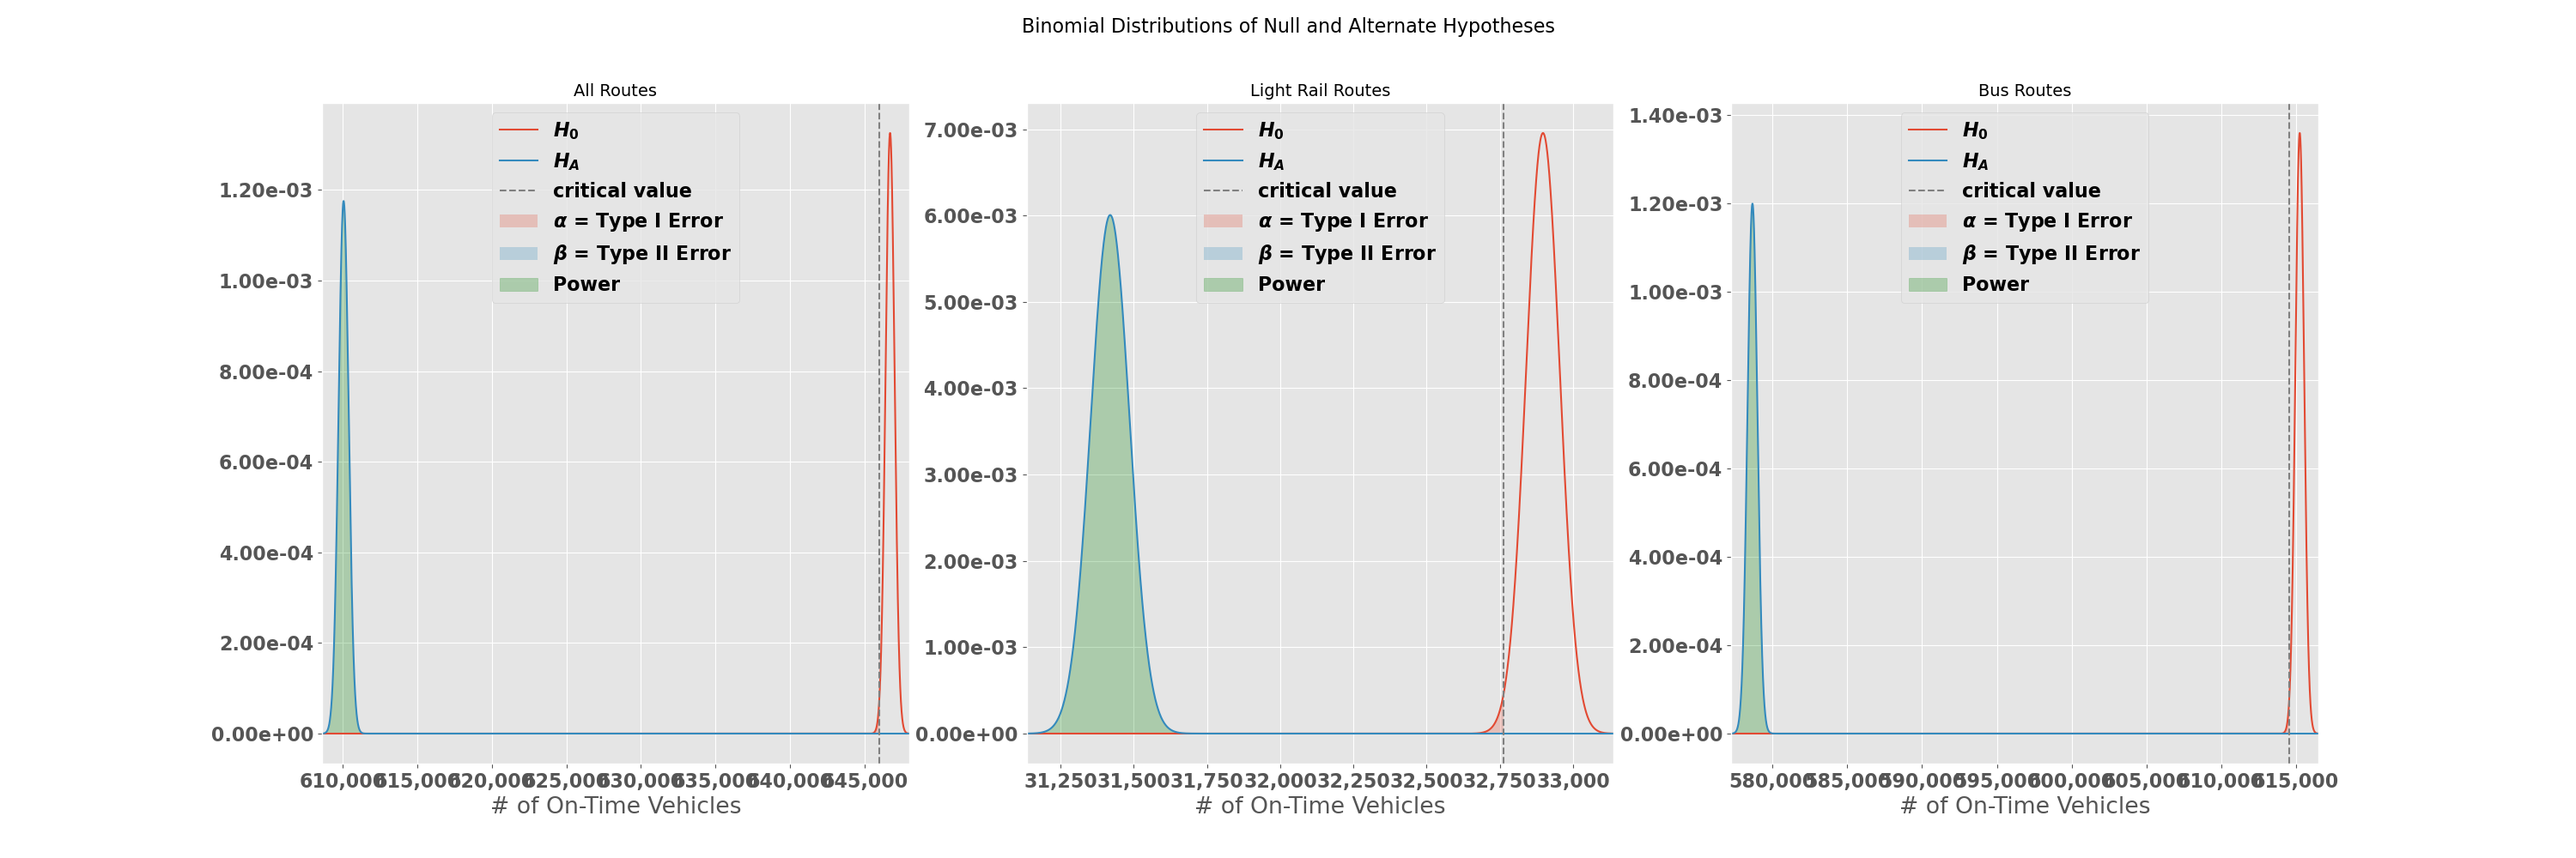
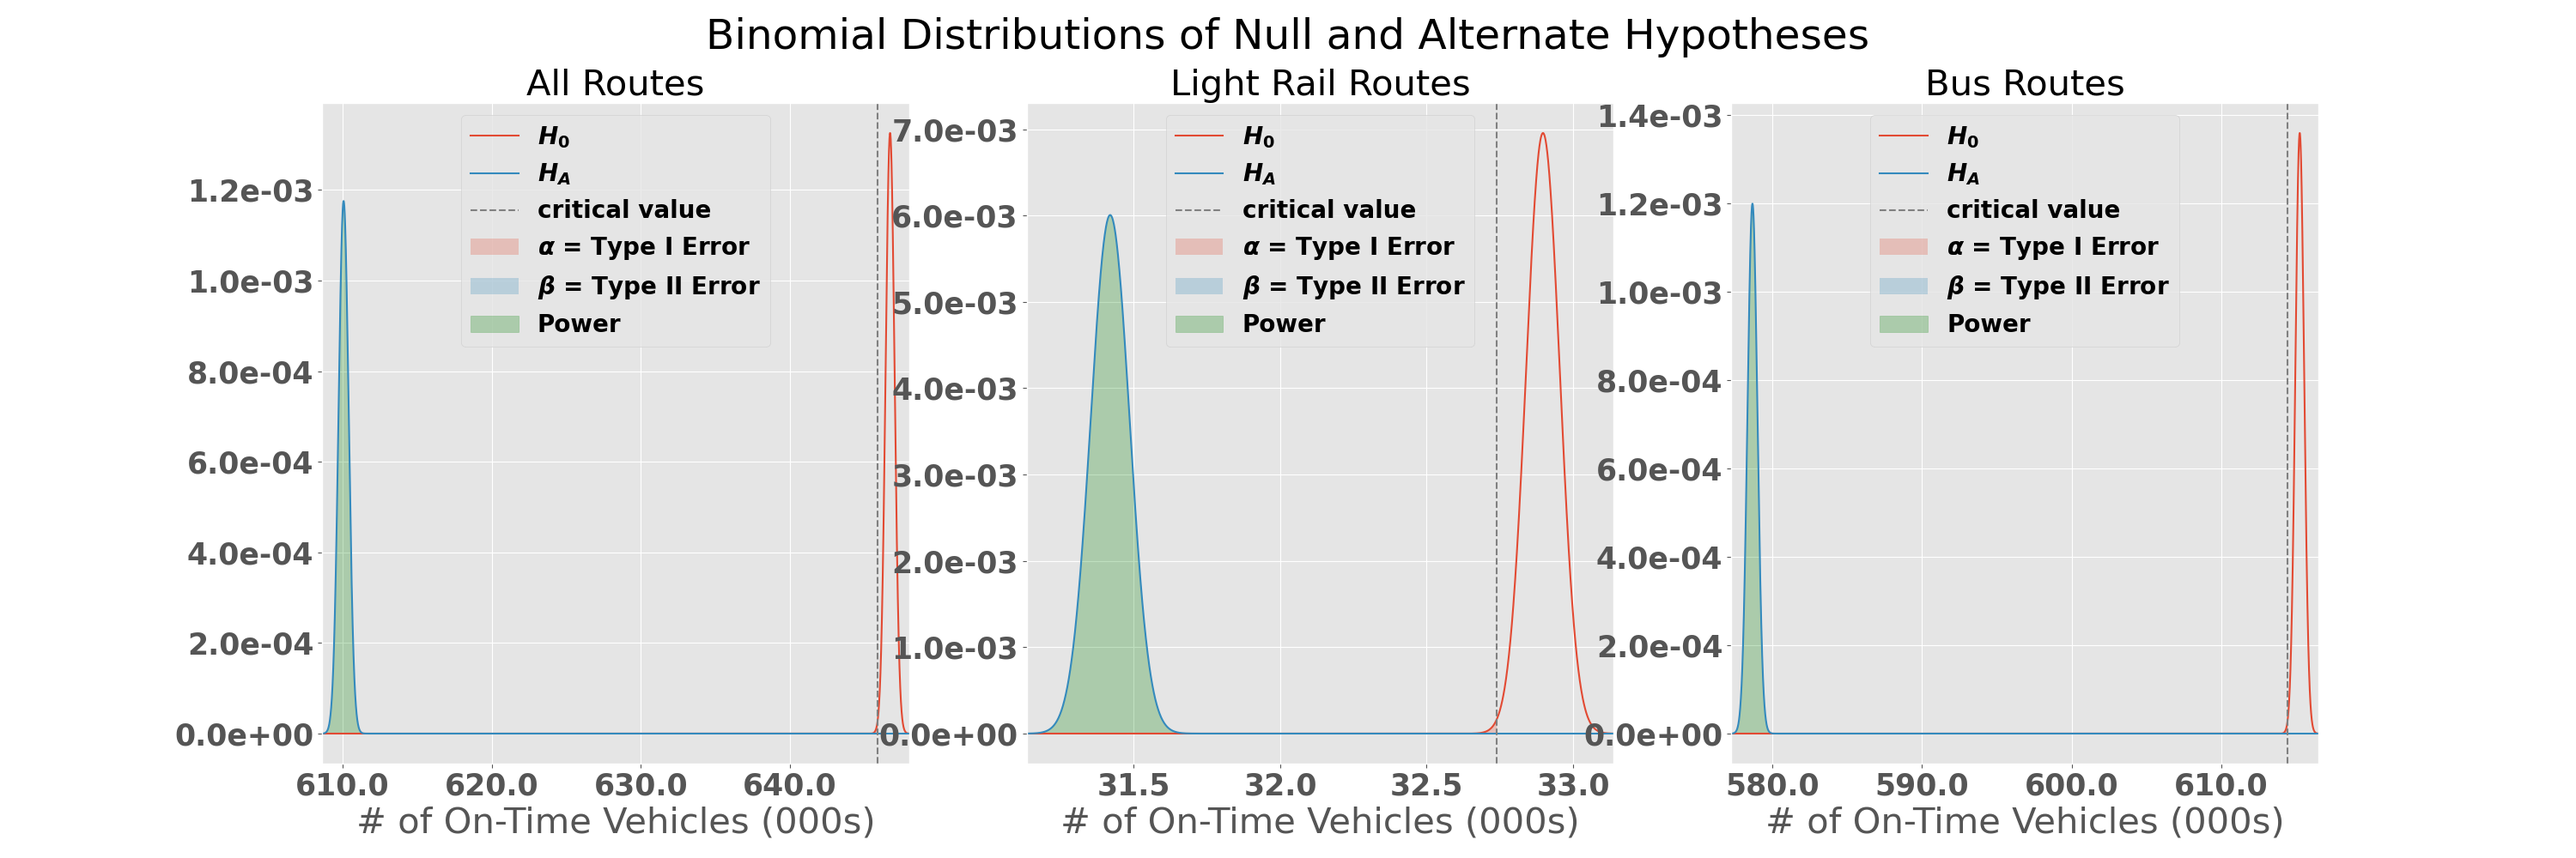
Updating all files for the day

diff --git a/src/analyze_rtd_data.py b/src/analyze_rtd_data.py
@@ -54,14 +54,19 @@ class RTD_analyze(object):
         self.ontime_departure_rate = self.ontime_stops / self.total_stops
 
     def plot_null_hypothesis(self, ax, alpha_value, null_percent):
-        
+        def thousands(x, pos):
+            'The two args are the value and tick position'
+            return '%3.1f' % (x/1000)
+
+        graph_fontsize = 30
+
         null_dist = stats.binom(n=self.total_stops, p=null_percent)
         x = np.linspace(0, self.total_stops, self.total_stops+1)
         observed_data = self.ontime_stops
         
         ax.plot(x, null_dist.pmf(x), label='$H_O$')
-        ax.yaxis.set_major_formatter(plt.FormatStrFormatter('%1.2e'))
-        ax.xaxis.set_major_formatter(plt.FuncFormatter(lambda x, p: format(int(x), ',')))
+        ax.yaxis.set_major_formatter(plt.FormatStrFormatter('%1.1e'))
+        ax.xaxis.set_major_formatter(plt.FuncFormatter(thousands))
         ax.set_xlim(null_dist.ppf(0.00001), null_dist.ppf(0.99999))
         ax.axvline(null_dist.ppf(alpha_value)
                   ,linestyle='--'
@@ -72,11 +77,16 @@ class RTD_analyze(object):
                         ,where= x <= observed_data
                         ,alpha=0.25
                         ,label=f"P Value = {null_dist.cdf(observed_data):.3f}")
-        ax.legend(loc='best')
-        ax.set_xlabel('# of On-Time Vehicles')
-        ax.set_title(f"{self.route_type.replace('_', ' ').title()} Routes", fontsize=14)
+        ax.legend(loc='best', fontsize=graph_fontsize-10)
+        ax.set_xlabel('# of On-Time Vehicles (000s)', fontsize=graph_fontsize)
+        ax.set_title(f"{self.route_type.replace('_', ' ').title()} Routes", fontsize=graph_fontsize)
 
     def plot_alt_hypothesis(self, ax, alpha_value, null_percent):
+        def thousands(x, pos):
+            'The two args are the value and tick position'
+            return '%3.1f' % (x/1000)
+
+        graph_fontsize = 30
 
         null_dist = stats.binom(n=self.total_stops, p=null_percent)
         alt_dist = stats.binom(n=self.total_stops, p=self.ontime_departure_rate)
@@ -85,8 +95,8 @@ class RTD_analyze(object):
 
         ax.plot(x, null_dist.pmf(x), label='$H_0$')
         ax.plot(x, alt_dist.pmf(x), label='$H_A$')
-        ax.yaxis.set_major_formatter(plt.FormatStrFormatter('%1.2e'))
-        ax.xaxis.set_major_formatter(plt.FuncFormatter(lambda x, p: format(int(x), ',')))
+        ax.yaxis.set_major_formatter(plt.FormatStrFormatter('%1.1e'))
+        ax.xaxis.set_major_formatter(plt.FuncFormatter(thousands))
         ax.set_xlim(min(alt_dist.ppf(0.00001), null_dist.ppf(0.00001)), max(alt_dist.ppf(0.99999), null_dist.ppf(0.99999)))
         ax.axvline(null_dist.ppf(alpha_value), linestyle='--', color='grey', label='critical value')
         ax.fill_between(x, null_dist.pmf(x)
@@ -102,9 +112,9 @@ class RTD_analyze(object):
                        ,alpha=0.25
                        ,color='Green'
                        ,label='Power')
-        ax.legend(loc='best')
-        ax.set_xlabel(f"# of On-Time Vehicles")
-        ax.set_title(f"{self.route_type.replace('_', ' ').title()} Routes", fontsize=14)
+        ax.legend(loc='best', fontsize=graph_fontsize-10)
+        ax.set_xlabel(f"# of On-Time Vehicles (000s)", fontsize=graph_fontsize)
+        ax.set_title(f"{self.route_type.replace('_', ' ').title()} Routes", fontsize=graph_fontsize)
 
 if __name__ == '__main__':
 
@@ -130,42 +140,46 @@ if __name__ == '__main__':
 
     # Original Null Hypothesis
     set_figsize = (30,10)
-
+    set_fontsize = 35
+    plt.rc('xtick',labelsize=25)
+    plt.rc('ytick',labelsize=25)
+    alpha_value = 0.01/3
+    
     fig, axs = plt.subplots(1,3,figsize=set_figsize)
 
-    all_routes.plot_null_hypothesis(ax=axs[0], alpha_value=0.01, null_percent=0.86)
-    light_rail.plot_null_hypothesis(ax=axs[1], alpha_value=0.01, null_percent=0.90)
-    bus.plot_null_hypothesis(ax=axs[2], alpha_value=0.01, null_percent=0.86)
-    fig.suptitle(f"Binomial Distribution of Null Hypotheses", fontsize=16)
+    all_routes.plot_null_hypothesis(ax=axs[0], alpha_value=alpha_value, null_percent=0.86)
+    light_rail.plot_null_hypothesis(ax=axs[1], alpha_value=alpha_value, null_percent=0.90)
+    bus.plot_null_hypothesis(ax=axs[2], alpha_value=alpha_value, null_percent=0.86)
+    fig.suptitle(f"Binomial Distribution of Null Hypotheses", fontsize=set_fontsize)
     plt.savefig(f"images/original_null_hypothesis.png")
     
     # Original Alt Hypothesis
     fig, axs = plt.subplots(1,3,figsize=set_figsize)
     
-    all_routes.plot_alt_hypothesis(ax=axs[0], alpha_value=0.01, null_percent=0.86)
-    light_rail.plot_alt_hypothesis(ax=axs[1], alpha_value=0.01, null_percent=0.90)
-    bus.plot_alt_hypothesis(ax=axs[2], alpha_value=0.01, null_percent=0.86)
-    fig.suptitle(f"Binomial Distributions of Null and Alternate Hypotheses", fontsize=16)
+    all_routes.plot_alt_hypothesis(ax=axs[0], alpha_value=alpha_value, null_percent=0.86)
+    light_rail.plot_alt_hypothesis(ax=axs[1], alpha_value=alpha_value, null_percent=0.90)
+    bus.plot_alt_hypothesis(ax=axs[2], alpha_value=alpha_value, null_percent=0.86)
+    fig.suptitle(f"Binomial Distributions of Null and Alternate Hypotheses", fontsize=set_fontsize)
     plt.savefig(f"images/original_alt_hypothesis.png")
 
     # Modified Null Hypothesis
-    all_routes_null_p = 0.815
+    all_routes_null_p = 0.8125
     light_rail_null_p = 0.87
-    bus_null_p = 0.815
+    bus_null_p = 0.81
 
     fig, axs = plt.subplots(1,3,figsize=set_figsize)
     
-    all_routes.plot_null_hypothesis(ax=axs[0], alpha_value=0.01, null_percent=all_routes_null_p)
-    light_rail.plot_null_hypothesis(ax=axs[1], alpha_value=0.01, null_percent=light_rail_null_p)
-    bus.plot_null_hypothesis(ax=axs[2], alpha_value=0.01, null_percent=bus_null_p)
-    fig.suptitle(f"Binomial Distributions of Null Hypotheses", fontsize=16)
+    all_routes.plot_null_hypothesis(ax=axs[0], alpha_value=alpha_value, null_percent=all_routes_null_p)
+    light_rail.plot_null_hypothesis(ax=axs[1], alpha_value=alpha_value, null_percent=light_rail_null_p)
+    bus.plot_null_hypothesis(ax=axs[2], alpha_value=alpha_value, null_percent=bus_null_p)
+    fig.suptitle(f"Binomial Distributions of Null Hypotheses", fontsize=set_fontsize)
     plt.savefig(f"images/modified_null_hypothesis.png")
 
     # Modified Alt Hypothesis
     fig, axs = plt.subplots(1,3,figsize=set_figsize)
     
-    all_routes.plot_alt_hypothesis(ax=axs[0], alpha_value=0.01, null_percent=all_routes_null_p)
-    light_rail.plot_alt_hypothesis(ax=axs[1], alpha_value=0.01, null_percent=light_rail_null_p)
-    bus.plot_alt_hypothesis(ax=axs[2], alpha_value=0.01, null_percent=bus_null_p)
-    fig.suptitle(f"Binomial Distributions of Null and Alternate Hypotheses", fontsize=16)
+    all_routes.plot_alt_hypothesis(ax=axs[0], alpha_value=alpha_value, null_percent=all_routes_null_p)
+    light_rail.plot_alt_hypothesis(ax=axs[1], alpha_value=alpha_value, null_percent=light_rail_null_p)
+    bus.plot_alt_hypothesis(ax=axs[2], alpha_value=alpha_value, null_percent=bus_null_p)
+    fig.suptitle(f"Binomial Distributions of Null and Alternate Hypotheses", fontsize=set_fontsize)
     plt.savefig(f"images/modified_alt_hypothesis.png")

diff --git a/README.md b/README.md
@@ -162,7 +162,11 @@ Next, I wanted to see what sort of range in departure_times I would be dealing w
 It looks like 99.5% of my data falls within (-20, 20) minutes so I zoomed in there to get a better idea of the distribution. There is definitely a normal distribution here with a slight left skew as vehicles are more often slightly late than slightly early. Overall though, this gives me a good idea of where my departure times will fall for the dataset.
 
 ### Null Hypotheses
-If we use the 2019Q3 goals (86% System, 90% Light Rail, 86% Bus) for our Null Hypothesis, we can see that COVID-19 and the RTD driver shortage of 2020 had significant impacts to the on-time departure rate. The p-value for each of our route types is below our stated $\alpha = 0.01$, which means we can **reject the Null Hypothesis that RTD's on-time departure rate during the measured time period was 86% or greater**.
+If we use the 2019Q3 goals (86% System, 90% Light Rail, 86% Bus) for our Null Hypothesis, we can see that COVID-19 and the RTD driver shortage of 2020 had significant impacts to the on-time departure rate. Since I am running 3 experiments:
+$$\large H_{0_{system}}: \text{On Time Service >= 86\%}\ \| \ \large H_{A_{system}}: \text{On Time Service < 86\%}$$ 
+$$\large H_{0_{\text{light rail}}}: \text{On Time Service >= 90\%}\ \ \| \ \large H_{A_{\text{light rail}}}: \text{On Time Service < 90\%}$$ 
+$$\large H_{0_{\text{bus}}}: \text{On Time Service >= 86\%}\ \ \| \ \large H_{A_{\text{bus}}}: \text{On Time Service < 86\%}$$ 
+I need to correct for using my original stated $\large \alpha = 0.01$. Using the **Bonferroni correction**, I would instead use $\large \frac{0.01}{3}$ or $\large \alpha=0.003$. The p-value for each of our route types is below our $\large \alpha$, which means we can **reject the Null Hypothesis that RTD's on-time departure rate during the measured time period was 86% or greater**.
 
 ![Null Hypothesis](images/original_null_hypothesis.png)
 
